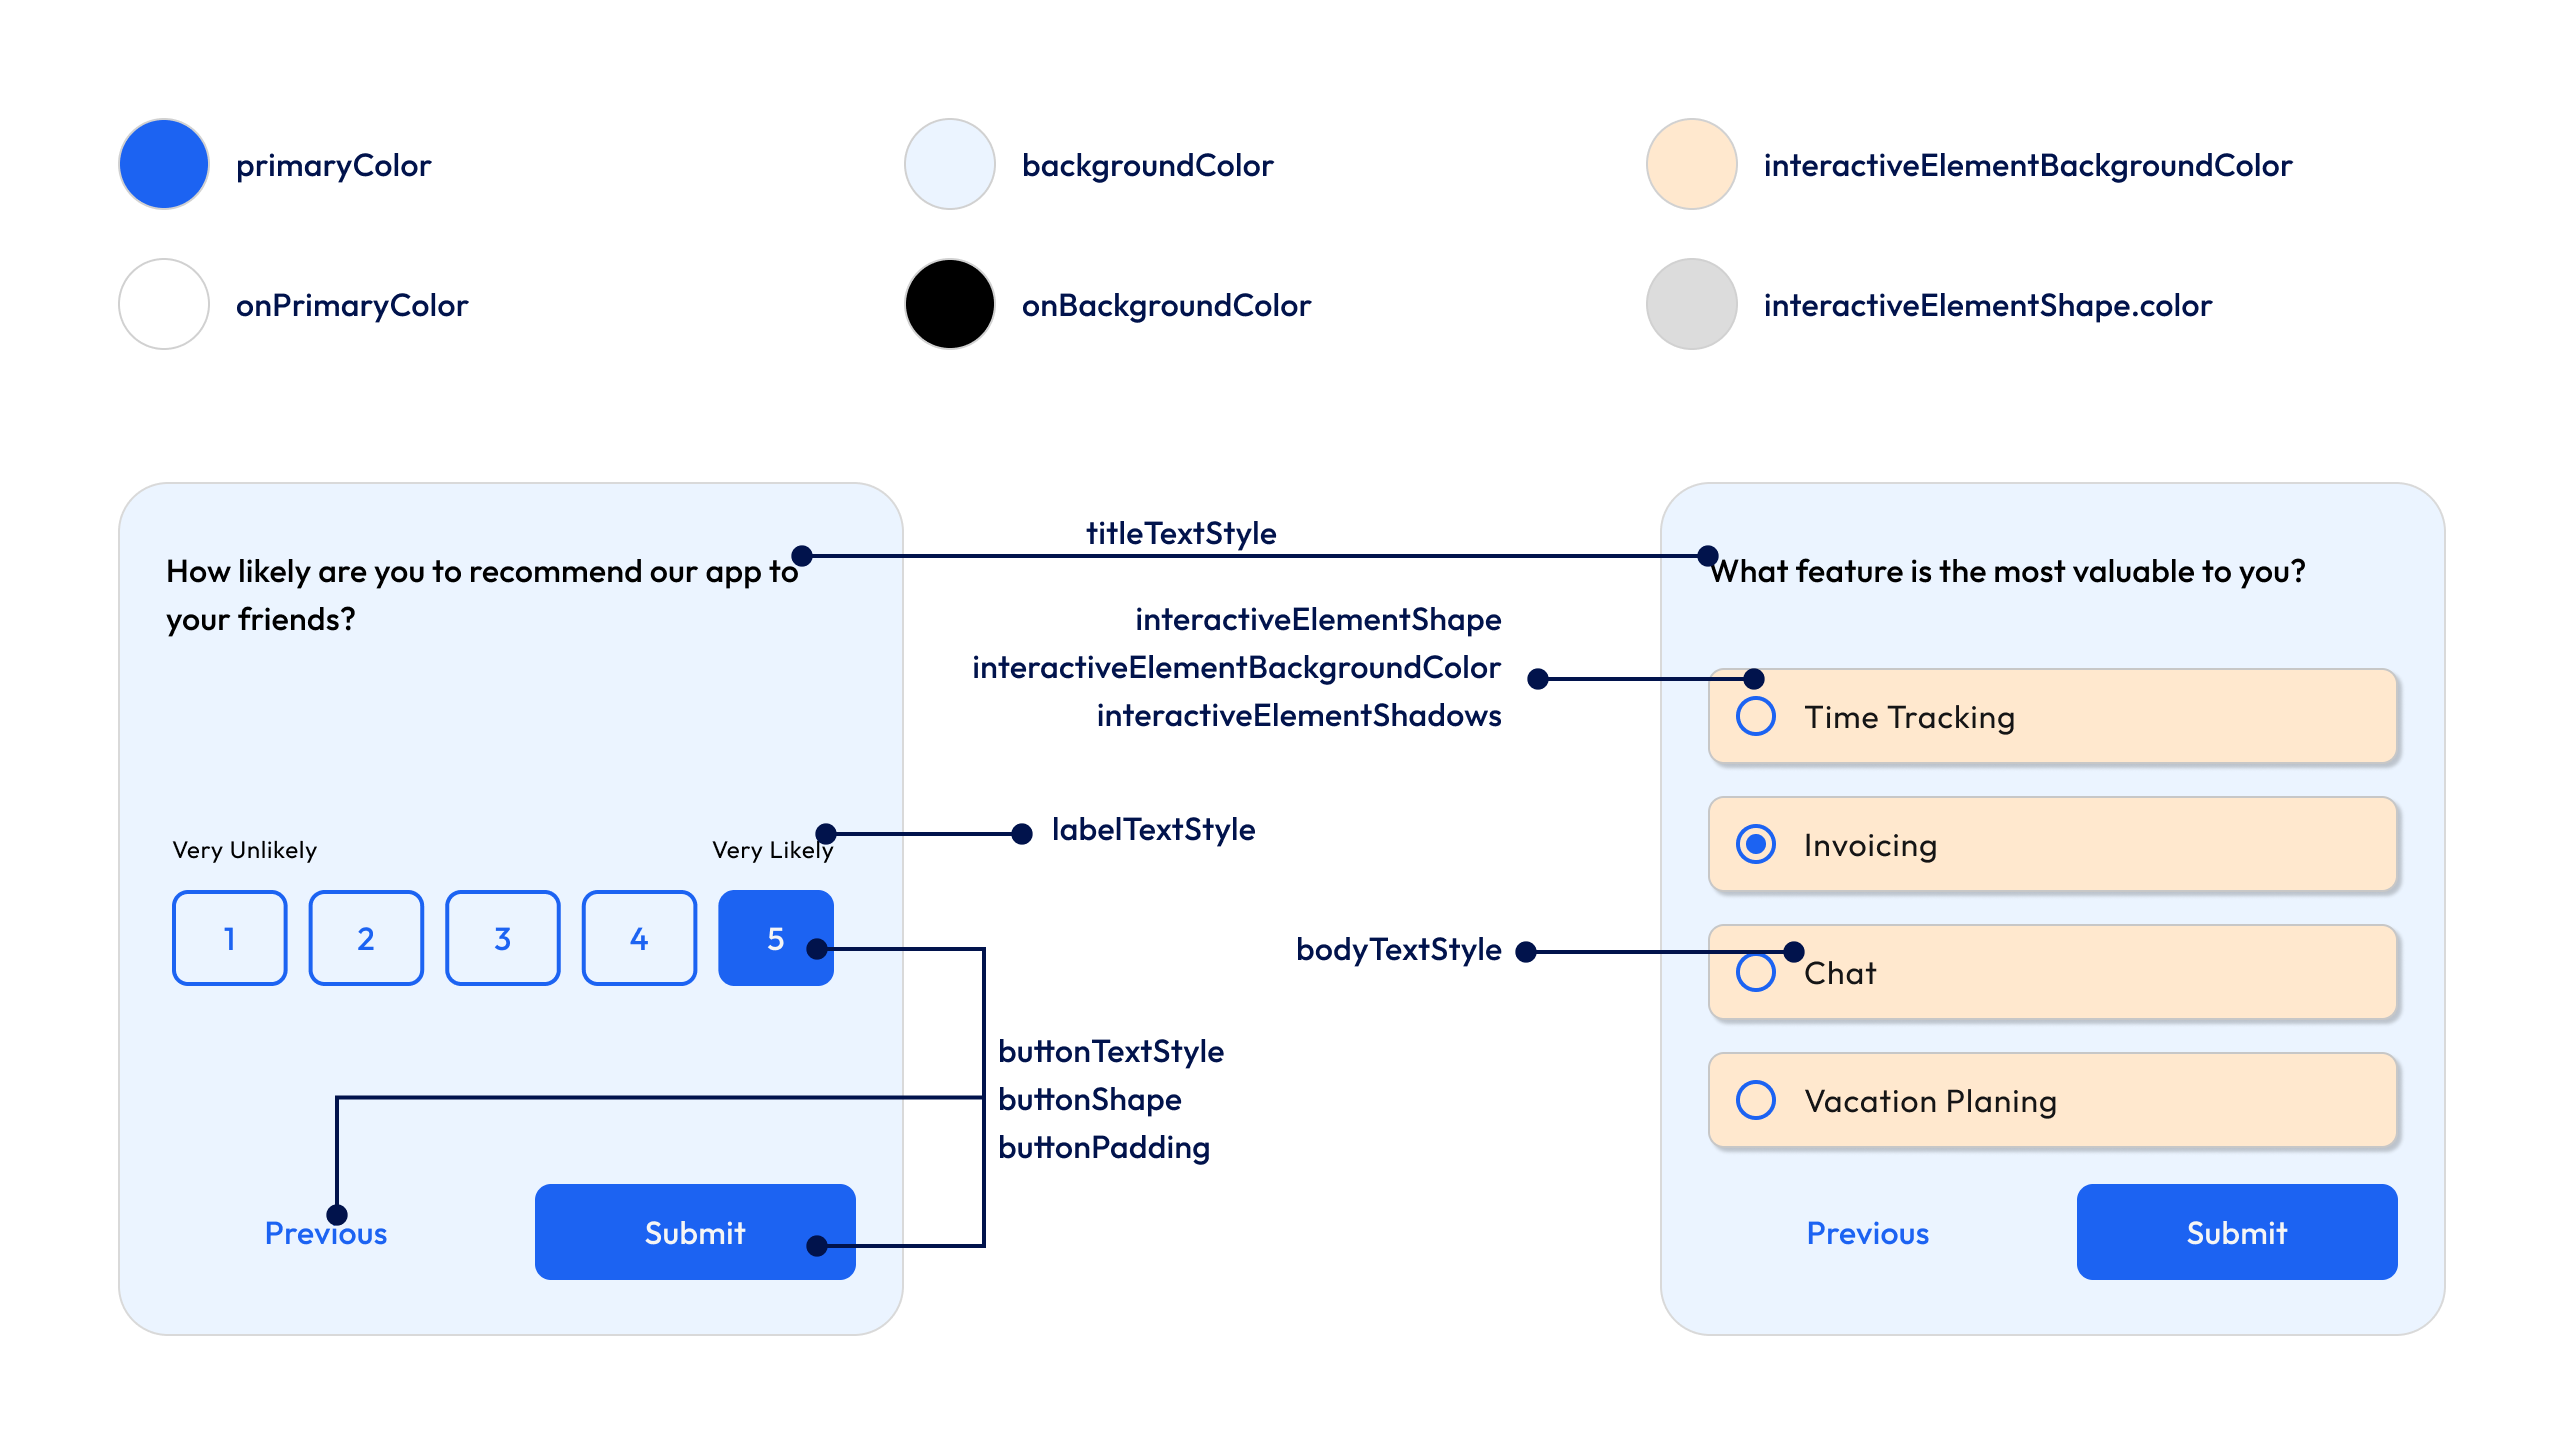
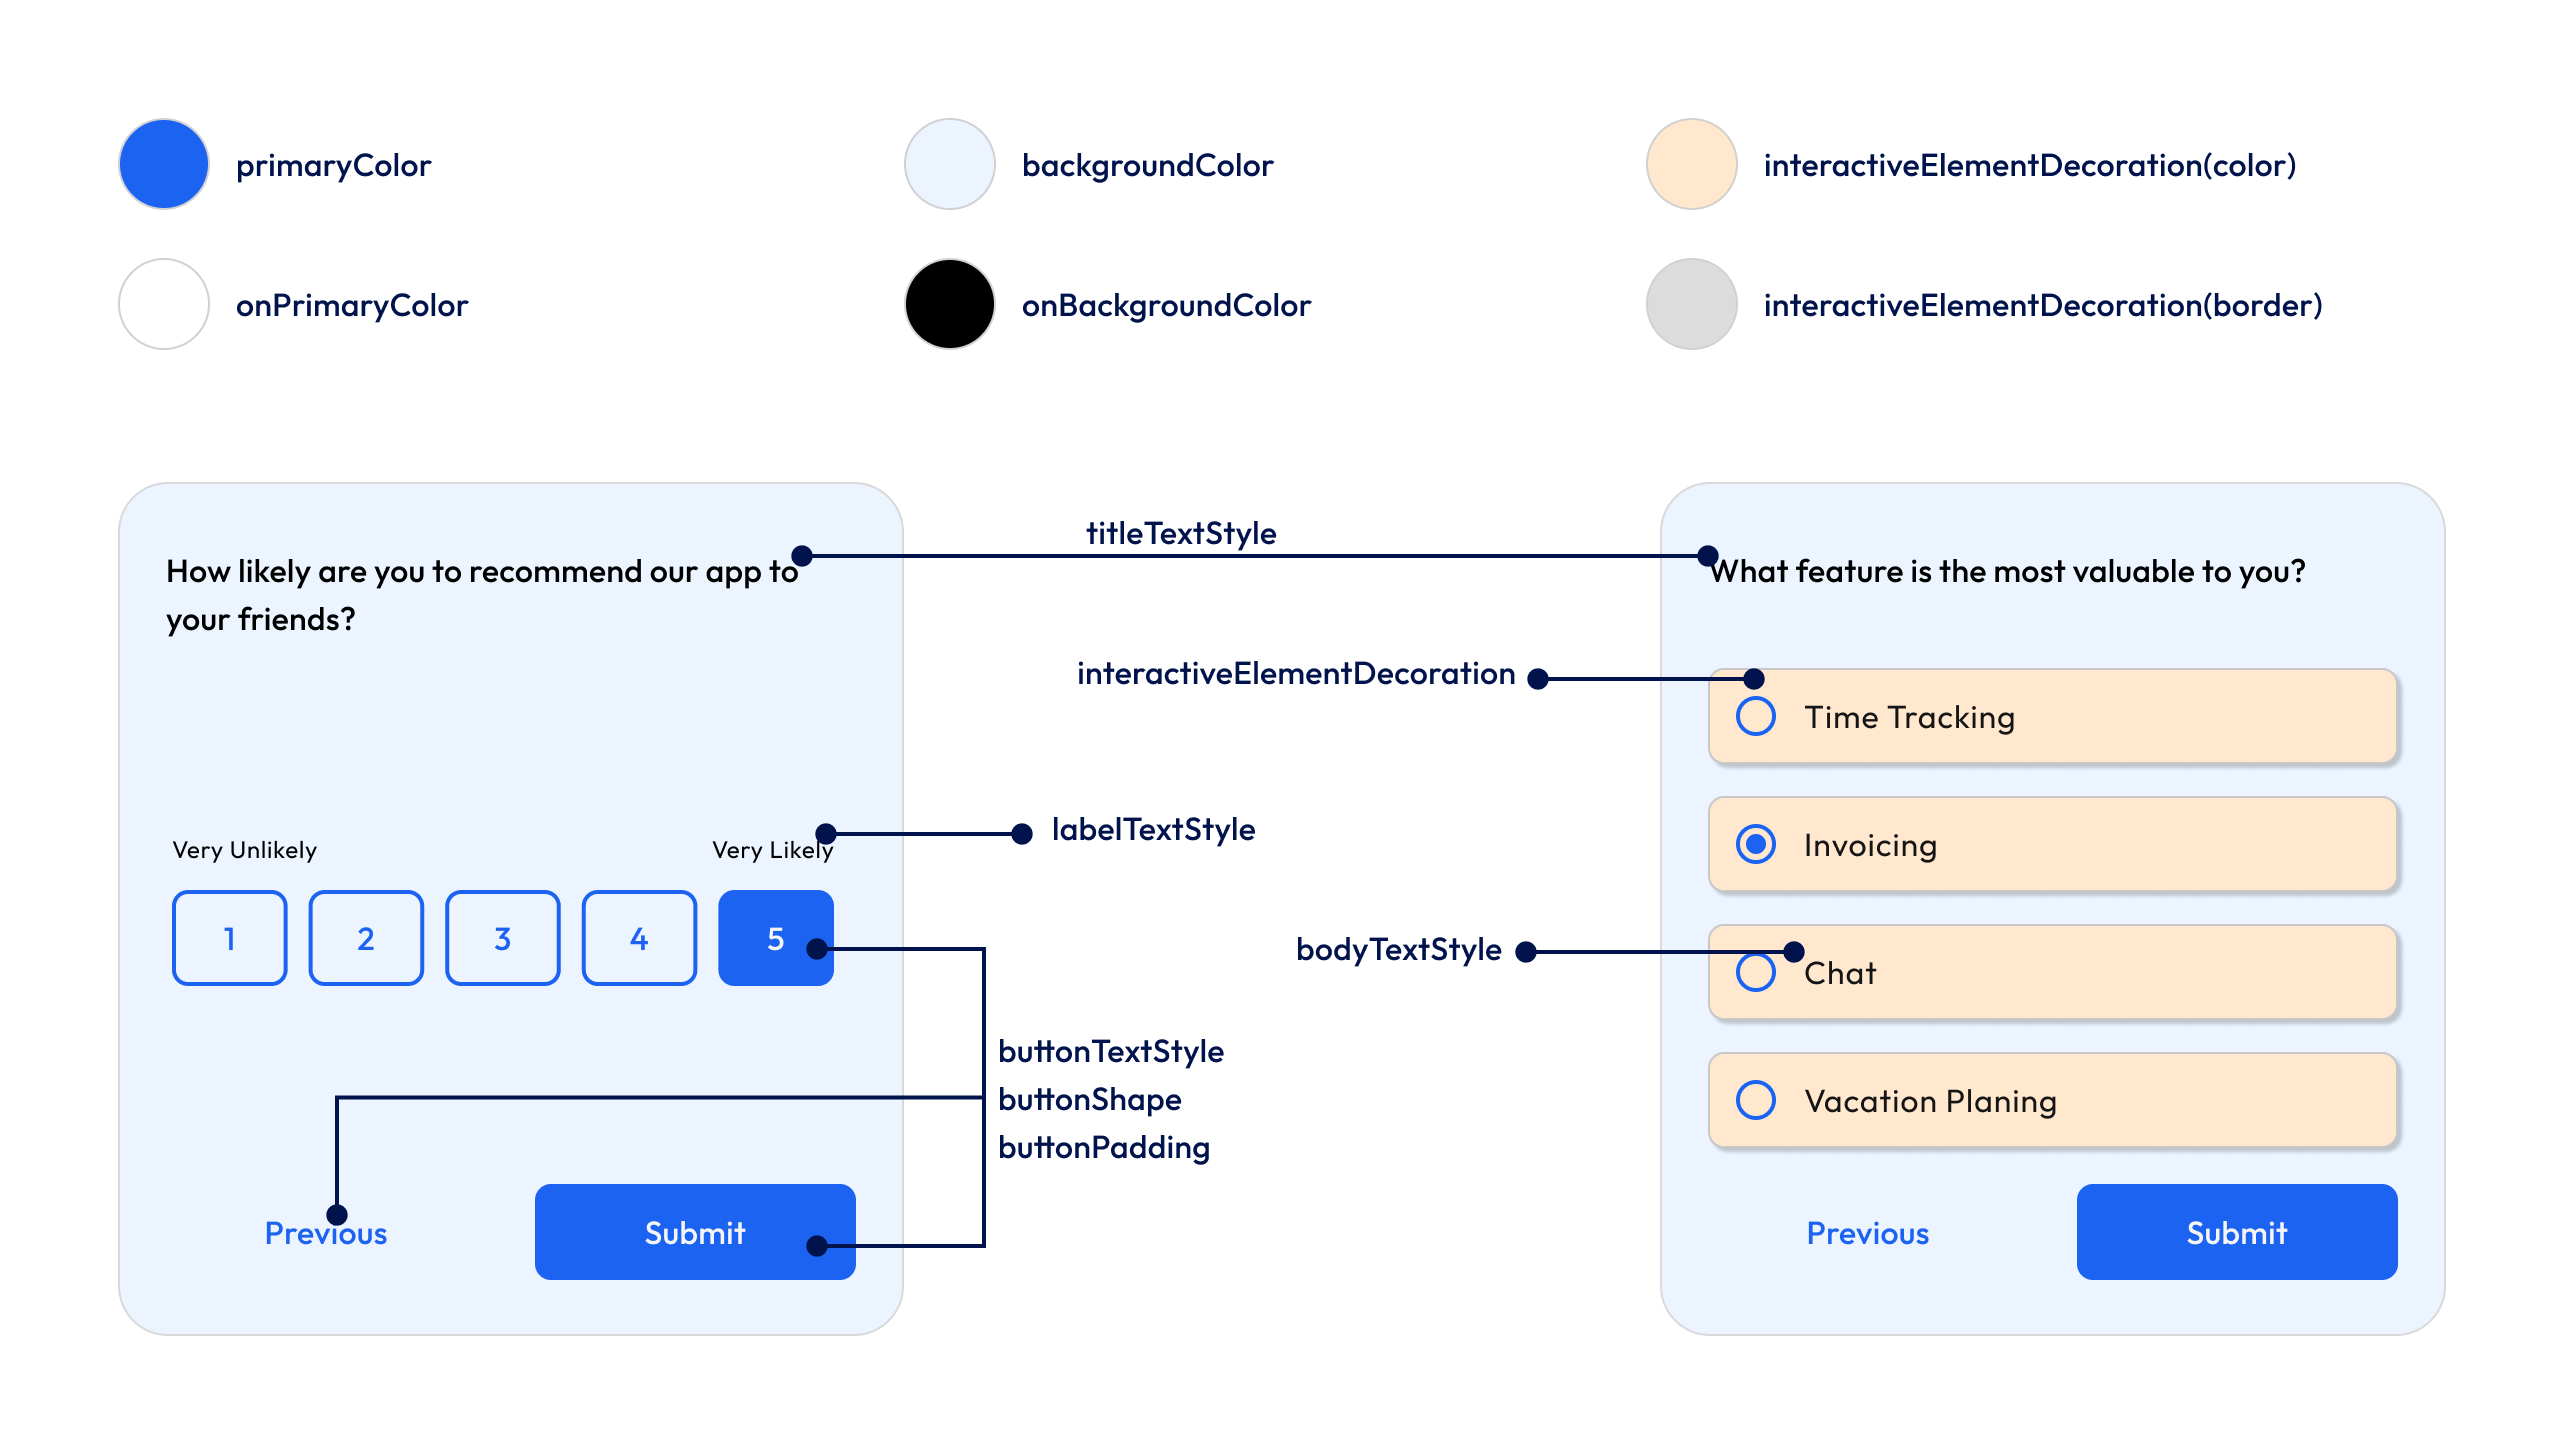
update

Changed region(s): [[0.3744, 0.4023, 0.5928, 0.4952], [0.78, 0.1857, 0.9048, 0.2166], [0.78, 0.0928, 0.9048, 0.1238]]

diff --git a/dash_survey/lib/src/survey/dash_survey_theme.dart b/dash_survey/lib/src/survey/dash_survey_theme.dart
@@ -11,9 +11,10 @@ const _defaultOnDisabledColor = Color(0xFF94A3B8);
 const _defaultBackgroundColor = Colors.white;
 const _defaultOnBackgroundColor = Color(0xFF1E293B);
 const _defaultInteractiveElementBackgroundColor = Colors.white;
-const _defaultInteractiveElementShape = RoundedRectangleBorder(
-  borderRadius: BorderRadius.all(Radius.circular(16)),
-  side: BorderSide(color: _defaultBorderColor),
+final _defaultInteractiveElementDecoration = BoxDecoration(
+  color: _defaultInteractiveElementBackgroundColor,
+  borderRadius: const BorderRadius.all(Radius.circular(16)),
+  border: Border.all(color: _defaultBorderColor),
 );
 const _defaultTitleTextStyle = TextStyle(
   fontSize: 24,
@@ -70,8 +71,7 @@ class DashSurveyThemeData {
     TextStyle? bodyStyle,
     TextStyle? labelStyle,
     TextStyle? buttonTextStyle,
-    ShapeBorder? interactiveElementShape,
-    List<BoxShadow>? interactiveElementShadows,
+    BoxDecoration? interactiveElementDecoration,
     Color? baseBorderColor = _defaultBorderColor,
     OutlinedBorder? buttonShape,
     InputBorder? textInputBorder,
@@ -87,8 +87,7 @@ class DashSurveyThemeData {
         _bodyTextStyle = bodyStyle,
         _labelTextStyle = labelStyle,
         _buttonTextStyle = buttonTextStyle,
-        _interactiveElementShape = interactiveElementShape,
-        _interactiveElementShadows = interactiveElementShadows,
+        _interactiveElementDecoration = interactiveElementDecoration,
         _baseBorderColor = baseBorderColor,
         _buttonShape = buttonShape,
         _textInputBorder = textInputBorder,
@@ -111,8 +110,7 @@ class DashSurveyThemeData {
   final TextStyle? _bodyTextStyle;
   final TextStyle? _labelTextStyle;
   final TextStyle? _buttonTextStyle;
-  final ShapeBorder? _interactiveElementShape;
-  final List<BoxShadow>? _interactiveElementShadows;
+  final BoxDecoration? _interactiveElementDecoration;
   final Color? _baseBorderColor;
   final OutlinedBorder? _buttonShape;
   final InputBorder? _textInputBorder;
@@ -156,21 +154,13 @@ class DashSurveyThemeData {
   /// Text style for all texts in buttons.
   TextStyle get buttonTextStyle => _buttonTextStyle ?? _defaultButtonTextStyle;
 
-  /// List of box shadows for all interactive elements.
-  List<BoxShadow>? get interactiveElementShadows => _interactiveElementShadows;
-
-  /// Shape of most interactive elements.
+  /// Box decoration for interactive elements.
   /// This is used for selectable list tiles in multiple choice questions.
-  ShapeBorder get interactiveElementShape =>
-      _interactiveElementShape ?? _defaultInteractiveElementShape;
+  BoxDecoration get interactiveElementDecoration =>
+      _interactiveElementDecoration ?? _defaultInteractiveElementDecoration;
 
   /// Shape for buttons.
   OutlinedBorder get buttonShape => _buttonShape ?? _defaultButtonShape;
-
-  /// Background color for interactive elements.
-  Color get interactiveElementBackgroundColor =>
-      _interactiveElementBackgroundColor ??
-      _defaultInteractiveElementBackgroundColor;
 
   /// Border color for all interactive elements.
   Color get baseBorderColor => _baseBorderColor ?? _defaultBorderColor;
@@ -189,8 +179,20 @@ class DashSurveyThemeData {
       onPrimaryColor: theme.colorScheme.onPrimary,
       disabledColor: theme.colorScheme.onSurface,
       onDisabledColor: theme.colorScheme.onSurface,
-      interactiveElementShape: theme.cardTheme.shape,
-      interactiveElementBackgroundColor: theme.cardTheme.color,
+      interactiveElementDecoration: BoxDecoration(
+        color: theme.cardTheme.color,
+        borderRadius:
+            (theme.cardTheme.shape as RoundedRectangleBorder?)?.borderRadius ??
+                const BorderRadius.all(Radius.circular(16)),
+        border: Border.all(color: theme.dividerColor),
+        boxShadow: [
+          BoxShadow(
+            color: theme.shadowColor,
+            blurRadius: 10,
+            offset: const Offset(0, 10),
+          ),
+        ],
+      ),
       titleStyle: theme.textTheme.titleMedium,
       bodyStyle: theme.textTheme.bodyMedium,
       labelStyle: theme.textTheme.labelSmall,
@@ -199,13 +201,6 @@ class DashSurveyThemeData {
       onBackgroundColor: theme.colorScheme.onSurface,
       buttonShape: theme.filledButtonTheme.style?.shape?.resolve({}),
       textInputBorder: theme.inputDecorationTheme.border,
-      interactiveElementShadows: [
-        BoxShadow(
-          color: theme.shadowColor,
-          blurRadius: 10,
-          offset: const Offset(0, 10),
-        ),
-      ],
     );
   }
 
@@ -223,8 +218,7 @@ class DashSurveyThemeData {
     TextStyle? bodyStyle,
     TextStyle? labelStyle,
     TextStyle? buttonTextStyle,
-    ShapeBorder? interactiveElementShape,
-    List<BoxShadow>? interactiveElementShadows,
+    BoxDecoration? interactiveElementDecoration,
     Color? baseBorderColor,
     OutlinedBorder? buttonShape,
     InputBorder? textInputBorder,
@@ -244,10 +238,8 @@ class DashSurveyThemeData {
       bodyStyle: bodyStyle ?? _bodyTextStyle,
       labelStyle: labelStyle ?? _labelTextStyle,
       buttonTextStyle: buttonTextStyle ?? _buttonTextStyle,
-      interactiveElementShape:
-          interactiveElementShape ?? _interactiveElementShape,
-      interactiveElementShadows:
-          interactiveElementShadows ?? _interactiveElementShadows,
+      interactiveElementDecoration:
+          interactiveElementDecoration ?? _interactiveElementDecoration,
       baseBorderColor: baseBorderColor ?? _baseBorderColor,
       buttonShape: buttonShape ?? _buttonShape,
       textInputBorder: textInputBorder ?? _textInputBorder,
@@ -273,10 +265,8 @@ class DashSurveyThemeData {
       bodyStyle: other._bodyTextStyle ?? _bodyTextStyle,
       labelStyle: other._labelTextStyle ?? _labelTextStyle,
       buttonTextStyle: other._buttonTextStyle ?? _buttonTextStyle,
-      interactiveElementShape:
-          other._interactiveElementShape ?? _interactiveElementShape,
-      interactiveElementShadows:
-          other._interactiveElementShadows ?? _interactiveElementShadows,
+      interactiveElementDecoration:
+          other._interactiveElementDecoration ?? _interactiveElementDecoration,
       baseBorderColor: other._baseBorderColor ?? _baseBorderColor,
       buttonShape: other._buttonShape ?? _buttonShape,
       textInputBorder: other._textInputBorder ?? _textInputBorder,

diff --git a/dash_survey/lib/src/survey/widgets/common/dash_card.dart b/dash_survey/lib/src/survey/widgets/common/dash_card.dart
@@ -32,15 +32,24 @@ class DashCard extends StatelessWidget {
   @override
   Widget build(BuildContext context) {
     final theme = context.dashSurveyTheme;
-    final shape = theme.interactiveElementShape;
+    final decoration = theme.interactiveElementDecoration;
+
+    ShapeBorder? customBorder;
+    if (decoration.shape is RoundedRectangleBorder) {
+      customBorder = decoration.shape as RoundedRectangleBorder;
+    } else if (decoration.shape is CircleBorder) {
+      customBorder = decoration.shape as CircleBorder;
+    } else if (decoration.shape is StadiumBorder) {
+      customBorder = decoration.shape as StadiumBorder;
+    } else if (decoration.shape is ContinuousRectangleBorder) {
+      customBorder = decoration.shape as ContinuousRectangleBorder;
+    }
+
     return Container(
       margin: EdgeInsets.zero,
-      decoration: ShapeDecoration(
-        color: theme.interactiveElementBackgroundColor,
-        shape: shape,
-      ),
+      decoration: decoration,
       child: InkWell(
-        customBorder: shape,
+        customBorder: customBorder,
         onTap: onTap,
         onHover: onHover,
         child: Padding(

diff --git a/dash_survey/lib/src/survey/widgets/survey_elements/scale_survey_widget.dart b/dash_survey/lib/src/survey/widgets/survey_elements/scale_survey_widget.dart
@@ -192,7 +192,7 @@ class _ScaleSurveyWidgetBaseState extends State<_ScaleSurveyWidgetBase> {
     final label1 = widget.question.options.get(widget.locale).firstOrNull ?? '';
     final label2 = widget.question.options.get(widget.locale).lastOrNull ?? '';
 
-    final outlineButtonShape = context.dashSurveyTheme.interactiveElementShape;
+    final buttonShape = context.dashSurveyTheme.buttonShape;
     return ConstrainedBox(
       constraints: const BoxConstraints(
         maxWidth: 360,
@@ -214,7 +214,7 @@ class _ScaleSurveyWidgetBaseState extends State<_ScaleSurveyWidgetBase> {
                 Expanded(
                   child: Center(
                     child: InkWell(
-                      customBorder: outlineButtonShape,
+                      customBorder: buttonShape,
                       onTap: () {
                         setState(() {
                           _selectedIndex = i;

diff --git a/dash_survey/example/lib/main.dart b/dash_survey/example/lib/main.dart
@@ -41,9 +41,12 @@ class MyApp extends StatelessWidget {
       onBackgroundColor: const Color(0xFF1E293B), // _defaultOnBackgroundColor
       interactiveElementBackgroundColor:
           Colors.white, // _defaultInteractiveElementBackgroundColor
-      interactiveElementShape: RoundedRectangleBorder(
+      interactiveElementDecoration: BoxDecoration(
+        color: Colors.white,
+        shape: BoxShape.rectangle,
         borderRadius: BorderRadius.circular(16),
-        side: const BorderSide(color: Color(0xFFe2e8f0)), // _defaultBorderColor
+        border:
+            Border.all(color: const Color(0xFFe2e8f0)), // _defaultBorderColor
       ),
       buttonShape: RoundedRectangleBorder(
         borderRadius: BorderRadius.circular(8),
